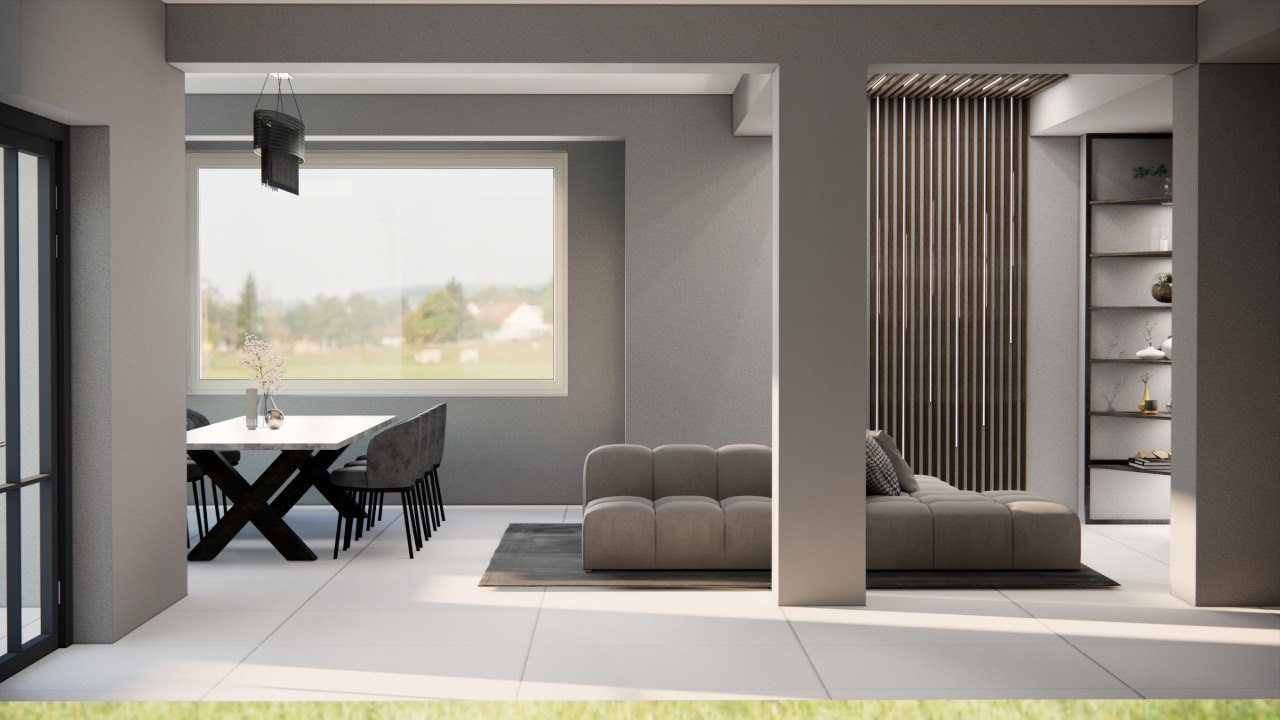
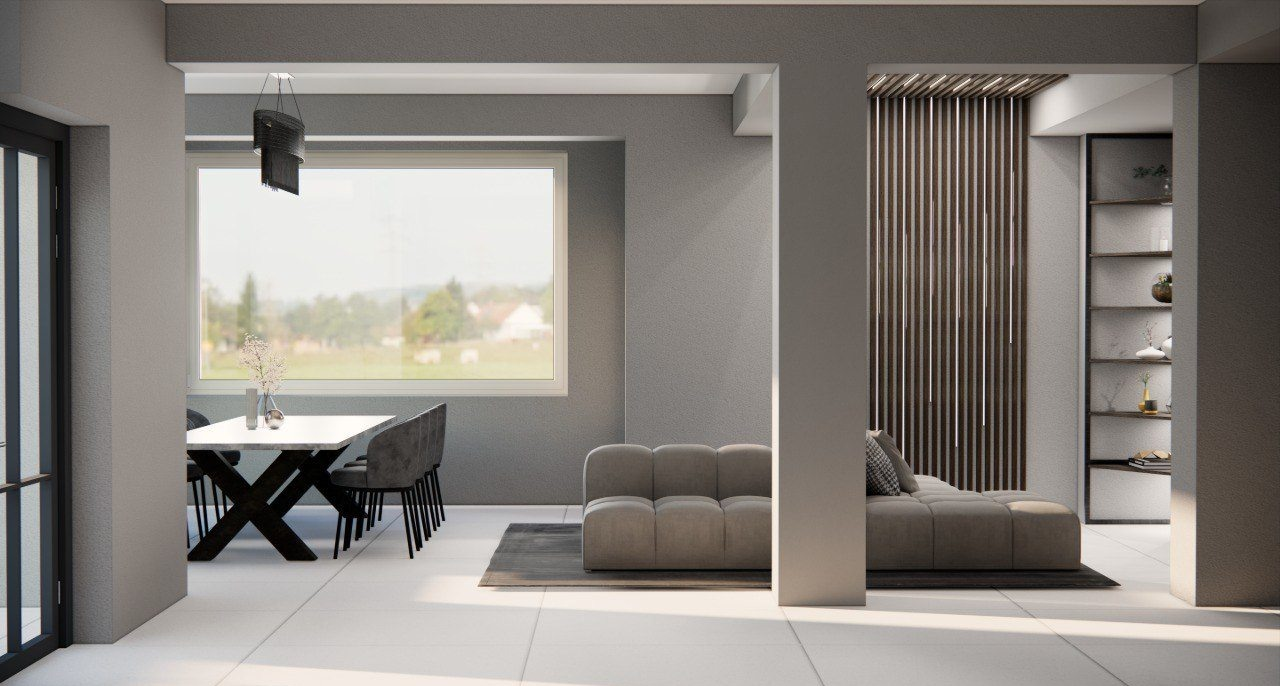
Vitrine: scoase 06,13, taiate 12,15,16 dupa liniile ei; Piatra lemn: scoase 01,17, coperta = 03

diff --git a/continut.js b/continut.js
@@ -196,10 +196,10 @@ window.PROIECTE = [
     stadiu: "vizualizare",
     locatie: { ro: "", ru: "", en: "" },
     rol: { ro: "Proiectarea mobilierului, randări, desene tehnice", ru: "Проектирование мебели, рендеры, чертежи", en: "Furniture design, renderings, technical drawings" },
-    coperta: "01.jpg",
+    coperta: "03.jpg",
     poze: [
-      "01.jpg", "03.jpg", "04.jpg", "05.jpg", "06.jpg", "07.jpg", "08.jpg",
-      "15.jpg", "17.jpg", "19.jpg",
+      "03.jpg", "04.jpg", "05.jpg", "06.jpg", "07.jpg", "08.jpg",
+      "15.jpg", "19.jpg",
       "# Cum e organizat interiorul | Как устроено внутри | How it is organised inside",
       "10.jpg",
       "# Desene tehnice | Чертежи | Technical drawings",
@@ -226,9 +226,9 @@ window.PROIECTE = [
     poze: [
       "01.jpg", "02.jpg", "03.jpg", "04.jpg", "14.jpg",
       "# Cum e organizat interiorul | Как устроено внутри | How it is organised inside",
-      "05.jpg", "06.jpg", "07.jpg", "08.jpg",
+      "05.jpg", "07.jpg", "08.jpg",
       "# Zona de zi | Гостиная | Living area",
-      "09.jpg", "10.jpg", "11.jpg", "12.jpg", "13.jpg", "15.jpg", "16.jpg",
+      "09.jpg", "10.jpg", "11.jpg", "12.jpg", "15.jpg", "16.jpg",
     ],
   },
 

diff --git a/imagini/lista.js b/imagini/lista.js
@@ -3,8 +3,8 @@ window.POZE = {
   "bucatarie-alba-l": ["01.jpg", "02.jpg", "03.jpg", "04.jpg", "05.jpg", "06.jpg", "07.jpg", "08.jpg"],
   "bucatarie-alb-negru": ["01.jpg", "02.jpg", "03.jpg", "04.jpg", "05.jpg"],
   "bucatarie-crem": ["01.jpg", "02.jpg", "03.jpg", "04.jpg", "05.jpg"],
-  "bucatarie-perete-verde": ["01.jpg", "03.jpg", "04.jpg", "05.jpg", "06.jpg", "07.jpg", "08.jpg", "10.jpg", "11.jpg", "12.jpg", "13.jpg", "14.jpg", "15.jpg", "17.jpg", "19.jpg", "20.jpg"],
-  "bucatarie-rafturi-metalice": ["01.jpg", "02.jpg", "03.jpg", "04.jpg", "05.jpg", "06.jpg", "07.jpg", "08.jpg", "09.jpg", "10.jpg", "11.jpg", "12.jpg", "13.jpg", "14.jpg", "15.jpg", "16.jpg"],
+  "bucatarie-perete-verde": ["03.jpg", "04.jpg", "05.jpg", "06.jpg", "07.jpg", "08.jpg", "10.jpg", "11.jpg", "12.jpg", "13.jpg", "14.jpg", "15.jpg", "19.jpg", "20.jpg"],
+  "bucatarie-rafturi-metalice": ["01.jpg", "02.jpg", "03.jpg", "04.jpg", "05.jpg", "07.jpg", "08.jpg", "09.jpg", "10.jpg", "11.jpg", "12.jpg", "14.jpg", "15.jpg", "16.jpg"],
   "dubai": ["02.png", "03.jpg", "04.jpg", "05.jpg", "11.jpg", "13.jpg", "16.jpg", "17.jpg", "21.jpg", "22.jpg", "25.jpg", "26.jpg", "28.jpg", "30.jpg"],
   "living-bucatarie-insula": ["01.jpg", "02.jpg", "03.jpg", "04.jpg"],
 };

diff --git a/index.html b/index.html
@@ -18,7 +18,7 @@
 <link rel="preconnect" href="https://fonts.googleapis.com">
 <link rel="preconnect" href="https://fonts.gstatic.com" crossorigin>
 <link href="https://fonts.googleapis.com/css2?family=Cormorant+Garamond:ital,wght@0,500;0,600;1,500&family=Manrope:wght@400;500;600;700&display=swap" rel="stylesheet">
-<link rel="stylesheet" href="stil.css?v=202610101916">
+<link rel="stylesheet" href="stil.css?v=202610101922">
 </head>
 <body>
 <div id="app">
@@ -29,9 +29,9 @@
     </div>
   </noscript>
 </div>
-<script src="imagini/lista.js?v=202610101916"></script>
-<script src="continut.js?v=202610101916"></script>
-<script src="brief.js?v=202610101916"></script>
-<script src="site.js?v=202610101916"></script>
+<script src="imagini/lista.js?v=202610101922"></script>
+<script src="continut.js?v=202610101922"></script>
+<script src="brief.js?v=202610101922"></script>
+<script src="site.js?v=202610101922"></script>
 </body>
 </html>
